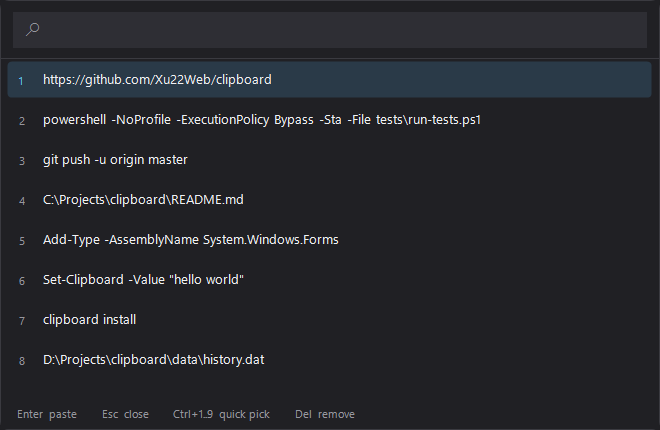
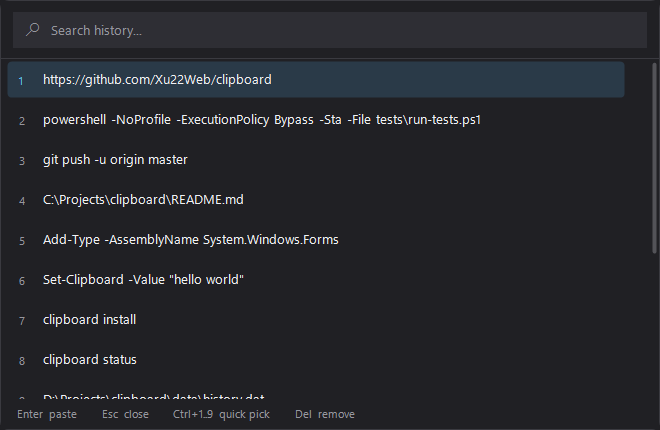
feat: Win11 style scrollbar for the picker list
- the native Win32 scrollbar cannot be themed, so WS_VSCROLL is stripped and a thin rounded thumb is painted instead (brightens on hover)

- thumb supports dragging and click-on-track jumps; wheel and PageUp/PageDown now scroll the list even though focus stays in the search box

- ListBox has no VerticalScrollbar property, and setting TopIndex restores WS_VSCROLL, so the style bit is re-stripped after every scroll

- screenshots regenerated with 14 sample entries so the thumb is visible

diff --git a/README.md b/README.md
@@ -18,6 +18,7 @@
 - 全局热键呼出搜索面板（默认 `Ctrl+Alt+V`），边打字边过滤，回车直接粘贴到原来的窗口
 - Explorer 里复制的**文件列表**也能捕获（CF_HDROP），可以原样粘回
 - 全键盘操作：`↑` `↓` 选择、`Ctrl+1..9` 快速选取、`Del` 删除、`Esc` 关闭
+- 列表可滚动：滚轮、`PageUp`/`PageDown`，右侧是自绘的 Win11 风格细滑块（可拖动、可点轨道跳转）
 - 托盘图标：显示历史 / 暂停捕获 / 恢复 / 清空 / 退出
 - 深色 / 浅色主题，`ExcludePattern` 正则可以把密码类内容挡在历史之外
 
